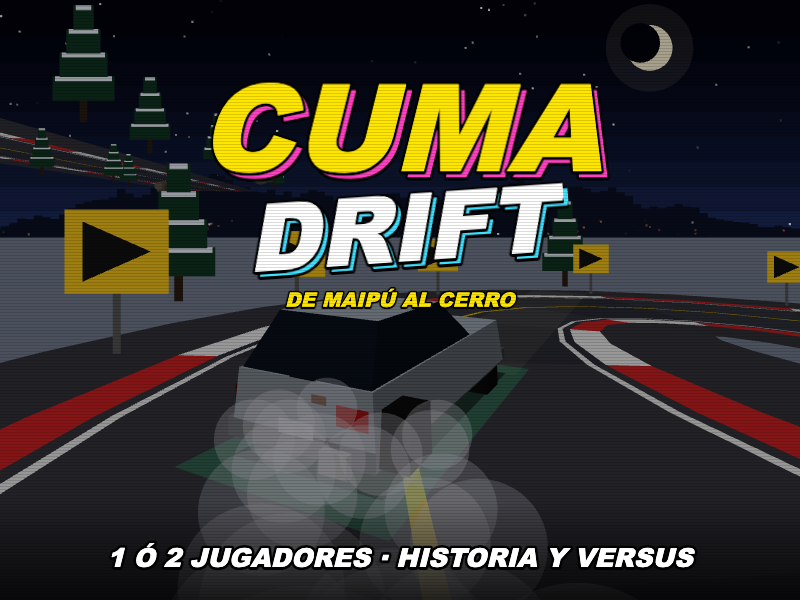
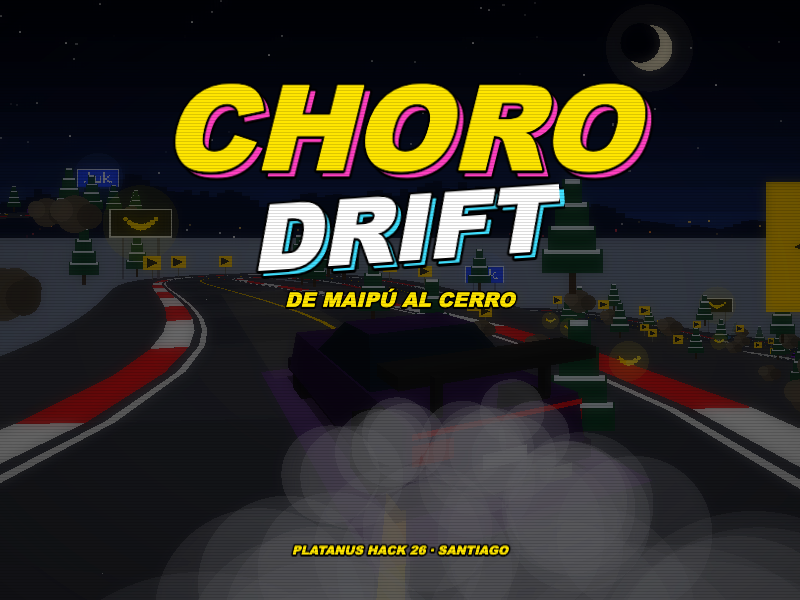
Rename to Choro Drift and polish for judging
- Rename the game to Choro Drift (title, garage, ending, metadata, cover)
- Add CARRERA RÁPIDA as the first menu option: one button to a race
  against a route rival, with a fitting car, without touching the save
- Bananas on every route refill piscola; Buk and Platanus billboards
- Bloom, vignette and saturation post effects; new cover from the game
- Piscola hint after the first drift; START skips the story intro
- Fix oversized cars on menu screens; consolation prize for losing
- Ease the quick-race rival, first story rival and rival rubber band
- Wrap the game in a function so the minifier shortens top-level names
  (frees ~2.4 KB) and drop unused scenery code

diff --git a/game.js b/game.js
@@ -1,5 +1,7 @@
-// CUMA DRIFT — Platanus Hack 26 Arcade
+// CHORO DRIFT — Platanus Hack 26 Arcade
 // Drift nocturno de Maipú al cerro. Todo generado por código.
+// Wrapped in a function so the minifier can shorten top-level names.
+(() => {
 
 const W = 800, H = 600;
 
@@ -136,14 +138,14 @@ const UPS = [
 ];
 // sky[top,horizon], grass, road, rumble, fog, rail, side objects, lamps every
 const TH = [
-  { sky: [0x05061a, 0x3a1f4a], gr: [0x23221f, 0x1d1c1a], rd: [0x2e2e34, 0x29292f], rm: [0x8a8a8a, 0x4a4a4a], fog: 0x120d1c, side: 'hhthk', ev: 7, lamp: 14 },
-  { sky: [0x06041a, 0x70264f], gr: [0x2a2a30, 0x242429], rd: [0x33333a, 0x2d2d33], rm: [0xe8c21a, 0x33333a], fog: 0x1f0d1c, side: 'bbbs', ev: 6, lamp: 11 },
-  { sky: [0x03051a, 0x53245a], gr: [0x1f2a22, 0x1a241d], rd: [0x303036, 0x2a2a30], rm: [0xdddddd, 0x33333a], fog: 0x170d20, side: 'btbt', ev: 7, lamp: 12, tw: 1 },
-  { sky: [0x02030f, 0x2a3a6a], gr: [0x20262c, 0x1b2026], rd: [0x2f2f35, 0x29292f], rm: [0xcc2222, 0xdddddd], fog: 0x0c0f1c, side: 'bbtb', ev: 7, lamp: 10 },
-  { sky: [0x01020c, 0x1a2a5a], gr: [0xc8d4e4, 0xb2c0d6], rd: [0x33343c, 0x2c2d35], rm: [0xcc2222, 0xeeeeee], fog: 0x0a1026, side: 'ppqp', ev: 8, lamp: 0 },
+  { sky: [0x05061a, 0x3a1f4a], gr: [0x23221f], rd: [0x2e2e34, 0x29292f], rm: [0x8a8a8a, 0x4a4a4a], fog: 0x120d1c, side: 'hhthk', lamp: 14 },
+  { sky: [0x06041a, 0x70264f], gr: [0x2a2a30], rd: [0x33333a, 0x2d2d33], rm: [0xe8c21a, 0x33333a], fog: 0x1f0d1c, side: 'bbbs', lamp: 11 },
+  { sky: [0x03051a, 0x53245a], gr: [0x1f2a22], rd: [0x303036, 0x2a2a30], rm: [0xdddddd, 0x33333a], fog: 0x170d20, side: 'btbt', lamp: 12, tw: 1 },
+  { sky: [0x02030f, 0x2a3a6a], gr: [0x20262c], rd: [0x2f2f35, 0x29292f], rm: [0xcc2222, 0xdddddd], fog: 0x0c0f1c, side: 'bbtb', lamp: 10 },
+  { sky: [0x01020c, 0x1a2a5a], gr: [0xc8d4e4], rd: [0x33343c, 0x2c2d35], rm: [0xcc2222, 0xeeeeee], fog: 0x0a1026, side: 'ppqp', lamp: 0 },
 ];
 const RT = [
-  { n: 'MAIPÚ', s: 'LAS POBLAS', th: 0, two: 1, seed: 7, pts: [0, 0, 0, 90, 30, 130, 90, 140, 130, 170, 130, 230, 90, 260, 20, 250, -20, 210, -70, 200, -110, 160, -110, 80, -70, 40, -60, -20, -30, -50, 0, -40], tr: 8, trT: [7, 6, 7, 4], hz: { y: 4, m: 3, d: 2 }, rv: { n: 'EL BRAYAN', q: '¿Con el auto de tu papi? JAJAJA.\nTe espero en la plaza, longi.', car: 1, col: 0xe6dfc4, vm: 26, al: 5 }, win: 1500 },
+  { n: 'MAIPÚ', s: 'LAS POBLAS', th: 0, two: 1, seed: 7, pts: [0, 0, 0, 90, 30, 130, 90, 140, 130, 170, 130, 230, 90, 260, 20, 250, -20, 210, -70, 200, -110, 160, -110, 80, -70, 40, -60, -20, -30, -50, 0, -40], tr: 8, trT: [7, 6, 7, 4], hz: { y: 4, m: 3, d: 2 }, rv: { n: 'EL BRAYAN', q: '¿Con el auto de tu papi? JAJAJA.\nTe espero en la plaza, longi.', car: 1, col: 0xe6dfc4, vm: 25, al: 4.7 }, win: 1500 },
   { n: 'SANTIAGO CENTRO', s: 'ALAMEDA Y CALLES CHICAS', th: 1, seed: 21, sc: 0.76, pts: [0, 0, 0, 160, 20, 200, 80, 200, 100, 180, 100, 120, 120, 100, 200, 100, 220, 120, 220, 220, 200, 240, 60, 260, 20, 300, -60, 300, -80, 280, -80, 200, -140, 180, -160, 140, -160, 20, -140, -20, -40, -40, -10, -30], tr: 14, trT: [4, 4, 6, 6, 7, 7], hz: { y: 5, P: 2 }, rv: { n: 'LA YESSENIA', q: 'En el centro mando yo, perrito.\nNo me vas a ver ni las luces.', car: 2, col: 0xff5fb0, vm: 28, al: 5.4 }, win: 2500 },
   { n: 'PROVIDENCIA', s: 'COSTANERA CENTER', th: 2, seed: 33, sc: 0.7, pts: [0, 0, 10, 120, 60, 200, 150, 230, 230, 200, 260, 120, 320, 80, 400, 110, 420, 200, 380, 280, 280, 320, 160, 330, 60, 380, -40, 360, -90, 280, -60, 200, -110, 120, -100, 20, -50, -40, -10, -50], tr: 16, trT: [4, 6, 6, 7, 7, 5], hz: { y: 4, g: 2, P: 2 }, rv: { n: 'EL TÍO LUCHO', q: 'Yo cruzo Provi en 4 minutos.\nCon pasajeros y dando vuelto.', car: 6, col: 0x151515, vm: 31, al: 6 }, win: 3500 },
   { n: 'LAS CONDES', s: 'EL GOLF Y APOQUINDO', th: 3, two: 1, seed: 48, sc: 0.7, pts: [0, 0, 0, 140, 40, 190, 110, 190, 150, 150, 150, 60, 190, 20, 260, 20, 300, 60, 300, 160, 340, 210, 340, 300, 290, 350, 200, 340, 150, 290, 90, 290, 40, 340, -40, 340, -90, 290, -90, 210, -140, 160, -140, 40, -100, -20, -30, -30], tr: 12, trT: [7, 7, 7, 6, 4], hz: { y: 4, P: 2, g: 2 }, rv: { n: 'EL MATI', q: 'Mi papá es dueño de esta comuna.\nLiteral. Córrete.', car: 7, col: 0xf2f2f2, vm: 35, al: 6.8 }, win: 5000 },
@@ -341,7 +343,9 @@ function mkTrack(ri) {
     }
     if (abs(k) > 0.024 && i % 2 === 0 && !r.lot) put(i, -sgn(k) * (hw + 2.6), { t: 'c', d: sgn(k) });
     if (r.lot && i % 4 === 0) put(i, -(hw + 0.6), { t: 'n' });
+    if (!r.lot && i % 30 === 15) put(i, ((i / 30 | 0) & 1 ? 1 : -1) * (hw + 6), { t: 'U', c: (i / 60 | 0) & 1 });
   }
+  if (!r.lot) for (let q = 0; q < 8; q++) put(25 + (rn() * (N - 50) | 0), (rn() - 0.5) * hw * 1.2, { t: 'B', p: rn() * 6, hz: 1 });
   const hz = r.hz || {};
   for (const t in hz) for (let q = 0; q < hz[t]; q++) {
     const i = 25 + (rn() * (N - 50) | 0);
@@ -509,9 +513,6 @@ function ob(o) {
     B(0, 0, 40, 330, 0x555555); B(0, 300, 520, 420, 0xf2c21a);
     const x = cx, y = by - 510 * cs, d = o.d;
     cg.fillStyle(0x111111, ca); cg.fillTriangle(x - d * 170 * cs, y - 150 * cs, x - d * 170 * cs, y + 150 * cs, x + d * 170 * cs, y);
-  } else if (t === 'a') {
-    B(0, 0, 330, 300, 0xeeeeee); B(0, 300, 400, 60, 0x4a6fd0); B(0, 360, 30, 190, 0xeeeeee); B(0, 460, 130, 30, 0xeeeeee);
-    B(-90, 0, 24, 60, 0xffd040); B(80, 0, 24, 60, 0xffd040); C(0, 60, 260, 0xffc050, 0.12);
   } else if (t === 'k') {
     B(0, 60, 620, 330, 0xe0e0e0); B(-230, 0, 90, 90, 0x111111); B(230, 0, 90, 90, 0x111111); B(0, 390, 30, 520, 0x777777);
     B(0, 880, 900, 110, 0xd82020); B(-300, 880, 150, 110, 0xffffff); B(300, 880, 150, 110, 0xffffff); C(0, 520, 330, 0xffc050, 0.14);
@@ -529,6 +530,25 @@ function ob(o) {
     const hop = abs(sin(now * 9)) * 30, d = Math.cos(now * 0.7 + o.p) > 0 ? 1 : -1;
     B(0, 60 + hop, 210, 100, 0x8a5a2a); B(d * 130, 130 + hop, 90, 90, 0x8a5a2a); B(d * 170, 120 + hop, 50, 36, 0x3a2412);
     B(-d * 110, 150 + hop, 30, 70, 0x8a5a2a); B(-70, hop, 28, 70, 0x6a4420); B(70, hop, 28, 70, 0x6a4420);
+  } else if (t === 'B') {
+    if (now - (o.g || -9) < 3) return;
+    const h = 120 + sin(now * 4 + o.p) * 40;
+    C(0, h + 90, 330, 0xffe14a, 0.18);
+    for (let i = -3; i < 4; i++) C(i * 55, h + 60 + i * i * 9, 50 - abs(i) * 5, i < 0 ? 0xffd400 : 0xffe84a);
+    B(-175, h + 130, 30, 50, 0x5a3a12);
+  } else if (t === 'U') {
+    const pl = o.c, y = 1300;
+    B(-560, 0, 70, y, 0x555560); B(560, 0, 70, y, 0x555560);
+    B(0, y, 2000, 900, 0xf4f4f4); B(0, y + 40, 1900, 820, pl ? 0x141414 : 0x2340e8);
+    C(0, y + 450, 1200, pl ? 0xffe600 : 0x6090ff, 0.1);
+    if (pl) for (let i = -4; i < 5; i++) C(i * 120, y + 330 + i * i * 16, 110 - abs(i) * 9, 0xffd400);
+    else {
+      const L = (x, a, b, w, h) => B(x + a, y + 230 + b, w, h, 0xffffff);
+      L(-430, 0, 0, 80, 520); L(-430, 110, 0, 220, 80); L(-430, 110, 240, 220, 80); L(-430, 190, 0, 80, 320);
+      L(0, -120, 0, 80, 320); L(0, 120, 0, 80, 320); L(0, 0, 0, 240, 80);
+      L(400, -110, 0, 80, 520); L(400, 0, 140, 90, 90); L(400, 80, 230, 90, 90); L(400, 80, 50, 90, 90); L(400, 150, 0, 80, 70); L(400, 150, 300, 80, 70);
+      C(-640, y + 270, 50, 0xffffff); C(640, y + 270, 50, 0xffffff);
+    }
   } else if (t === 'P') car(8, o.yw - CYAW, {});
   else if (t === 'n') { B(0, 0, 70, 14, 0x222222); B(0, 14, 46, 60, 0xff7a1a); B(0, 40, 34, 14, 0xffffff); }
 }
@@ -607,7 +627,7 @@ function view(P, g, VH) {
     const i = key & 1023, j = tk.ix(i + 1);
     if (j === i) continue;
     const f = Math.pow(clamp(((key >> 10) / 8 - 16) / 230, 0, 1), 1.3), alt = (i >> 1) & 1, fc_ = (c) => mix(c, th.fog, f);
-    if (!tk.lot) { strip(g, i, j, -hw - 4.6, hw + 4.6, fc_(th.sw || 0x34343a)); strip(g, i, j, -hw - 1, hw + 1, fc_(th.rm[alt])); }
+    if (!tk.lot) { strip(g, i, j, -hw - 4.6, hw + 4.6, fc_(0x34343a)); strip(g, i, j, -hw - 1, hw + 1, fc_(th.rm[alt])); }
     strip(g, i, j, -hw, hw, fc_(i === tk.fin ? 0xeeeeee : th.rd[alt]));
     const lc = fc_(0xe8e8e8);
     strip(g, i, j, -hw + 0.25, -hw + 0.42, lc); strip(g, i, j, hw - 0.42, hw - 0.25, lc);
@@ -672,12 +692,12 @@ function startRace(ri, mode) {
   const grid = (o, i, lat) => { o.x = tk.x[i] + tk.tz[i] * lat; o.z = tk.z[i] - tk.tx[i] * lat; o.y = tk.y[i]; o.yaw = o.cyaw = Math.atan2(tk.tx[i], tk.tz[i]); o.si = i; };
   if (vs) for (let i = 0; i < 2; i++) { const P = mkP(i, VS.c[i], [2, 2, 2, 1, 1, 1, 1], 0, VH); grid(P, 3, i ? 1.7 : -1.7); R.P.push(P); }
   else {
-    const dm = mode === 'demo', P = mkP(0, dm ? 3 : SV.car, dm ? [1, 1, 1, 1, 1, 1, 1] : SV.up, SV.bug, VH);
+    const dm = mode === 'demo', qk = mode === 'quick', P = mkP(0, dm ? 3 : qk ? [0, 1, 2, 3, 3][ri] : SV.car, dm ? [1, 1, 1, 1, 1, 1, 1] : qk ? [2, 2, 2, 1, 1, 1, 1] : SV.up, qk ? 0 : SV.bug, VH);
     grid(P, 3, mode === 'free' ? 0 : -1.7); R.P.push(P);
     if (dm) { P.demo = 1; P.s = 12; P.lat = 0; P.spd = 0; }
-    else if (mode === 'story') {
+    else if (mode === 'story' || mode === 'quick') {
       const rv = rt.rv;
-      R.rv = { ai: 1, s: 8 * tk.ds, lat: 1.7, sp: 0, ty: rv.car, w: 0.95, vmx: rv.vm, al: rv.al, col: rv.col, fin: 0, lapc: 0, prog: 0, fl: 0, o: { col: rv.col, neon: ri > 2 ? 0xff3060 : 0, wing: ri > 0, beam: 1 } };
+      R.rv = { ai: 1, s: 8 * tk.ds, lat: 1.7, sp: 0, ty: rv.car, w: 0.95, vmx: rv.vm * (mode === 'quick' ? 0.82 : 1), al: rv.al * (mode === 'quick' ? 0.85 : 1), col: rv.col, fin: 0, lapc: 0, prog: 0, fl: 0, o: { col: rv.col, neon: ri > 2 ? 0xff3060 : 0, wing: ri > 0, beam: 1 } };
       R.cars.push(R.rv);
     }
   }
@@ -763,7 +783,7 @@ function upP(P, dt) {
   if (P.cmbT > 0) { P.cmbT -= dt; if (P.cmbT <= 0 && !P.dr) P.cmb = 1; }
   P.bo = b2 && P.ni > 0 && !D ? 1 : 0;
   if (P.bo) { if (!P.wb) { nz(0.5, 0.25, 1200, 'bandpass'); tone(200, 0.5, 'sawtooth', 0.1, 900); } P.ni -= dt * 0.7; }
-  P.wb = P.bo;
+  P.wb = P.bo; if (P.bo) P.nu = 1;
   if (P.slp > 0.5 && U) { P.vx *= 1 + 0.06 * dt; P.vz *= 1 + 0.06 * dt; }
   if (hb) P.dk = 1; else if (abs(P.be) < 0.22) P.dk = max(0, P.dk - dt * 2.5);
   const surf = !tk.lot && abs(P.lat) > tk.hw + 1 ? 0.6 : 1;
@@ -823,7 +843,7 @@ function upP(P, dt) {
         if (P.vf < 0 || ab > 1.4) { P.cmb = 1; pop(P, '¡TROMPO!', '#ff4040'); }
         else if (lv) {
           P.ni = min(3, P.ni + P.ch * 0.5);
-          pop(P, ['', '¡WENA!', '¡LA MEDIA VOLÁ!', '¡¡CUMA DRIFT!!'][lv] + ' x' + P.cmb, ['', '#40c8ff', '#ff9020', '#ff40c0'][lv]);
+          pop(P, ['', '¡WENA!', '¡LA MEDIA VOLÁ!', '¡¡CHORO DRIFT!!'][lv] + ' x' + P.cmb, ['', '#40c8ff', '#ff9020', '#ff40c0'][lv]);
           tone(500 * lv, 0.25, 'square', 0.12, 1000 * lv); nz(0.4, 0.2, 1200, 'bandpass');
           P.cmb = min(9, P.cmb + 1); P.cmbT = 5;
         }
@@ -871,7 +891,9 @@ function upP(P, dt) {
     const hl = tk.hm[tk.ix(si0 + q)];
     if (hl) for (const o of hl) {
       const t = o.t, d2 = abs(o.lat - P.lat);
-      if (t === 'y' && d2 < 1.3) { P.vx *= 0.75; P.vz *= 0.75; P.shk = 0.35; P.bnc = 0.6; pop(P, '¡HOYO!', '#ff9020'); nz(0.2, 0.4, 300, 'lowpass'); }
+      if (t === 'B') {
+        if (d2 < 1.6 && now - (o.g || -9) > 3) { o.g = now; P.ni = min(3, P.ni + 1); P.pts += 200 * P.cmb; pop(P, '¡PLÁTANO! +PISCOLA', '#ffe600'); tone(988, 0.08, 'square', 0.12); tone(1319, 0.15, 'square', 0.1, 0, AC ? AC.currentTime + 0.07 : 0); }
+      } else if (t === 'y' && d2 < 1.3) { P.vx *= 0.75; P.vz *= 0.75; P.shk = 0.35; P.bnc = 0.6; pop(P, '¡HOYO!', '#ff9020'); nz(0.2, 0.4, 300, 'lowpass'); }
       else if (t === 'm') {
         P.bnc = 1;
         if (sp > 13) { P.vx *= 0.78; P.vz *= 0.78; P.shk = 0.4; pop(P, '¡LOMO DE TORO!', '#ff9020'); nz(0.25, 0.4, 250, 'lowpass'); }
@@ -907,7 +929,7 @@ function upCars(dt) {
       const i = Math.floor(c.s / tk.ds);
       let vt = c.vmx;
       for (let q = 0; q < 14; q++) vt = min(vt, Math.sqrt(c.al / (abs(tk.k[tk.ix(i + q)]) + 1e-4) + 13 * q * tk.ds));
-      vt *= 1 + clamp((P0.prog - c.prog) * tk.ds / 300, -0.07, 0.1);
+      vt *= 1 + clamp((P0.prog - c.prog) * tk.ds / 300, -0.12, 0.1);
       let tl = clamp(tk.k[tk.ix(i + 3)] * 60, -1, 1) * (tk.hw - 1.6);
       if (RT[R.ri].two) tl = max(tl, 0.9);
       for (const t of R.cars) {
@@ -974,7 +996,7 @@ function hud(P, oy, VH) {
     let c = 0;
     for (let q = 2; q < 15; q += 3) c = max(c, abs(tk.k[tk.ix(P.si + q)]));
     if (c > 0.024 && (now * 3 | 0) % 2) T('dh' + i, W / 2, oy + VH * 0.32, '¡BOTÓN 2 EN LA CURVA = DERRAPE!', vs ? 20 : 26, '#40e0ff');
-  }
+  } else if (R.go && R.mode !== 'free' && P.ni >= 1 && !P.nu && (now * 3 | 0) % 3) T('hn' + i, W / 2, oy + 54, 'BOTÓN 3: ¡PISCOLA! = NITRO', vs ? 14 : 18, '#40e0ff');
   if (P.ww > 1.2) T('ww' + i, W / 2, oy + VH * 0.4, '¡SENTIDO CONTRARIO!', 30, '#ff4040');
   if (P.pop) {
     const q = P.pop;
@@ -1019,7 +1041,7 @@ function race(dt) {
     } else if (R.t < 5 && cd <= 0) T('cd', W / 2, H / 2 - 40, '¡DALE!', 90, '#a0ff40');
   } else if (R.t < 6) T('cdh', W / 2, 120, 'PISTA LIBRE\nBOTÓN 1 ACELERA · ABAJO FRENA\nBOTÓN 2 FRENO DE MANO · BOTÓN 3 PISCOLA', 18, '#ffffff');
   if (hit.START1 || hit.START2) {
-    if (now - R.q < 1.2) { endRace(); go(vs || free ? 'title' : 'garage'); return; }
+    if (now - R.q < 1.2) { endRace(); go(vs || free || R.mode === 'quick' ? 'title' : 'garage'); return; }
     R.q = now;
   }
   if (now - R.q < 1.2) T('quit', W / 2, H - 60, 'START OTRA VEZ PARA SALIR', 16, '#ffffff');
@@ -1052,12 +1074,13 @@ function finish() {
     go(R.nm ? 'name' : 'vres');
     return;
   }
-  const P = R.P[0], win = P.fin && (!R.rv.fin || P.fin <= R.rv.fin), base = win ? RT[R.ri].win : 0, dr = (P.pts * facha() / 20) | 0;
+  const P = R.P[0], win = P.fin && (!R.rv.fin || P.fin <= R.rv.fin), base = win ? RT[R.ri].win : P.fin ? RT[R.ri].win * 0.4 | 0 : 0, dr = (P.pts * facha() / 20) | 0;
   const earn = max(0, base + dr - P.fine), t = P.fin ? P.fin - 4 : 0;
   let rec = 0;
-  if (win && (!SV.best[R.ri] || t < SV.best[R.ri])) { SV.best[R.ri] = t; rec = 1; }
-  R.res = { win, base, dr, fine: P.fine, earn, t, rec, first: win && SV.prog === R.ri };
-  SV.cash += earn;
+  const qk = R.mode === 'quick';
+  if (!qk && win && (!SV.best[R.ri] || t < SV.best[R.ri])) { SV.best[R.ri] = t; rec = 1; }
+  R.res = { win, base, dr, fine: P.fine, earn, t, rec, qk, first: !qk && win && SV.prog === R.ri };
+  if (!qk) SV.cash += earn;
   if (R.res.first) SV.prog++;
   if (R.res.first && R.ri === 4) SV.own[3] = 1;
   save();
@@ -1085,7 +1108,7 @@ function floor() {
   for (let i = -10; i < 11; i++) gu.lineBetween(W / 2 + i * 40, 380, W / 2 + i * 190, H);
   gu.fillStyle(0xff40c0, 0.08); gu.fillRect(0, 370, W, 12);
 }
-function showCar(x, y, sc, ty, a, o) { cg = gu; cx = x; by = y; cs = sc; ca = 1; vcam = 620; FV = 1500; car(ty, a, o); FV = F; }
+function showCar(x, y, sc, ty, a, o) { cg = gu; cx = x; by = y; cs = sc * 0.6; ca = 1; vcam = 620; FV = 1500; car(ty, a, o); FV = F; }
 const myTy = () => (SV.car === 0 && SV.bug ? 9 : SV.car);
 const myO = () => ({ neon: SV.car === 3 ? 0xb040ff : SV.up[3] ? 0x30ff90 : 0, wing: SV.up[4] || SV.car === 3, exh: SV.up[5] });
 
@@ -1093,19 +1116,20 @@ function title(dt) {
   race(dt);
   gu.fillStyle(0x000000, 0.35); gu.fillRect(0, 0, W, H);
   const b = 1 + sin(now * 16.2) * 0.02;
-  T('t1s', W / 2 + 6, 136, 'CUMA', 120, '#ff40c0').setScale(b);
-  T('t1', W / 2, 130, 'CUMA', 120, '#ffe600').setScale(b);
+  T('t1s', W / 2 + 6, 136, 'CHORO', 120, '#ff40c0').setScale(b);
+  T('t1', W / 2, 130, 'CHORO', 120, '#ffe600').setScale(b);
   T('t2s', W / 2 + 5, 235, 'DRIFT', 92, '#40e0ff').setScale(b).setAngle(-4);
   T('t2', W / 2, 230, 'DRIFT', 92, '#ffffff').setScale(b).setAngle(-4);
   T('t3', W / 2, 300, 'DE MAIPÚ AL CERRO', 20, '#ffe600');
   // the cabinet is shared: anyone can resume the saved story or start over
-  const ks = SV.on ? ['c', 'n', 'v', 'f'] : ['n', 'v', 'f'], nk = ks.length;
-  const it = ks.map((k) => ({ c: 'CONTINUAR HISTORIA', n: SV.on ? 'NUEVA HISTORIA' : 'MODO HISTORIA', v: 'VERSUS 2 JUGADORES', f: 'PISTA LIBRE' })[k]);
+  const ks = SV.on ? ['q', 'c', 'n', 'v', 'f'] : ['q', 'n', 'v', 'f'], nk = ks.length;
+  const it = ks.map((k) => ({ q: 'CARRERA RÁPIDA', c: 'CONTINUAR HISTORIA', n: SV.on ? 'NUEVA HISTORIA' : 'MODO HISTORIA', v: 'VERSUS 2 JUGADORES', f: 'PISTA LIBRE' })[k]);
   sel = min(sel, nk - 1);
   if (tap(1, 'U') || tap(2, 'U')) { sel = (sel + nk - 1) % nk; sSel(); }
   if (tap(1, 'D') || tap(2, 'D')) { sel = (sel + 1) % nk; sSel(); }
-  it.forEach((s, i) => T('m' + i, W / 2, 380 - (nk - 3) * 30 + i * 40, (sel === i ? '▶ ' : '') + s, sel === i ? 30 : 24, sel === i ? '#ffe600' : '#ffffff'));
-  if ((now * 2 | 0) % 2) T('ps', W / 2, 520, 'APRETA UN BOTÓN', 18, '#a0ff40');
+  it.forEach((s, i) => T('m' + i, W / 2, 345 + i * (nk > 4 ? 34 : 42), (sel === i ? '▶ ' : '') + s, sel === i ? 30 : 24, sel === i ? '#ffe600' : '#ffffff'));
+  if ((now * 2 | 0) % 2) T('ps', W / 2, 522, 'APRETA UN BOTÓN', 18, '#a0ff40');
+  T('ph', W / 2, 22, 'PLATANUS HACK 26 · SANTIAGO', 12, '#ffe600');
   T('cr', W / 2, 575, 'BOTÓN 1 ACELERA · ABAJO FRENA · BOTÓN 2 FRENO DE MANO · BOTÓN 3 PISCOLA', 12, '#ffffff');
   const rk = [0, 1, 2, 3, 4].filter((i) => REC.t[i]);
   if (rk.length) { const i = rk[(now / 3 | 0) % rk.length]; T('rc', W / 2, 548, 'RÉCORD ' + RT[i].n + ': ' + REC.n[i] + '  ' + tm(REC.t[i]), 16, '#40e0ff'); }
@@ -1113,7 +1137,8 @@ function title(dt) {
   if (okHit(1) || okHit(2)) {
     const k = ks[sel];
     sOk(); endRace();
-    if (k === 'f') startRace(5, 'free');
+    if (k === 'q') startRace(rnd() * 5 | 0, 'quick');
+    else if (k === 'f') startRace(5, 'free');
     else if (k === 'v') go('vsel');
     else if (k === 'c') go('garage');
     else { const b = SV.best; SV = fresh(); SV.best = b; save(); go('intro'); }
@@ -1127,6 +1152,7 @@ const INTRO = [
 ];
 function intro() {
   gu.fillStyle(0x000000, 1); gu.fillRect(0, 0, W, H);
+  if (hit.START1 && page < 3) { page = 3; st = 0; }
   if (page < 3) {
     const p = INTRO[page], s = p[1].slice(0, st * 30 | 0);
     T('i0', W / 2, 200, p[0], 40, '#ffe600');
@@ -1160,7 +1186,7 @@ function garage() {
   sel = min(sel, items.length - 1);
   const it = items[sel], mr = min(SV.prog, 4);
   if (it.k === 'go' && (tap(1, 'L') || tap(1, 'R'))) { rsel = (rsel + (tap(1, 'L') ? mr : 1)) % (mr + 1); sSel(); }
-  T('gt', 24, 14, 'TALLER DON CUMA', 30, '#ffe600', 0, 0);
+  T('gt', 24, 14, 'TALLER DON CHORO', 30, '#ffe600', 0, 0);
   T('gc', W - 24, 14, fmt(SV.cash), 30, '#a0ff40', 1, 0);
   showCar(210, 350, 0.62, myTy(), now * 0.8, myO());
   T('gn', 210, 110, SV.car === 0 && SV.bug ? "ESCARABAJO '74" : CARS[SV.car].n, 24, '#ffffff');
@@ -1223,14 +1249,14 @@ function result() {
     }
   });
   if (r.first && R.ri < 4) T('r2', W / 2, 490, '¡RUTA NUEVA: ' + RT[R.ri + 1].n + '!', 26, '#40e0ff');
-  if (st > 2 && (now * 2 | 0) % 2) T('r3', W / 2, 550, 'BOTÓN: AL TALLER', 18, '#a0ff40');
-  if (st > 1.2 && okHit(1)) { sOk(); go(r.first && R.ri === 4 ? 'end' : 'garage'); }
+  if (st > 2 && (now * 2 | 0) % 2) T('r3', W / 2, 550, r.qk ? 'BOTÓN: MENÚ' : 'BOTÓN: AL TALLER', 18, '#a0ff40');
+  if (st > 1.2 && okHit(1)) { sOk(); go(r.qk ? 'title' : r.first && R.ri === 4 ? 'end' : 'garage'); }
 }
 
 const ENDT = [
   ['EL REY DEL CERRO', 'te tira las llaves del BMV.\n«Cuídalo. Está zorreado entero.»'],
   ['MAIPÚ. 06:12.', 'Tu papá en la puerta, en pantuflas.\n«¿Y mi auto?... ¿Le pusiste NEÓN?»'],
-  ['CUMA DRIFT', 'Ahora el cerro es tuyo.\nEl BMV 320 ZORRÓN te espera en el taller.'],
+  ['CHORO DRIFT', 'Ahora el cerro es tuyo.\nEl BMV 320 ZORRÓN te espera en el taller.'],
 ];
 function ending() {
   gu.fillStyle(0x000000, 1); gu.fillRect(0, 0, W, H);
@@ -1308,6 +1334,7 @@ function create() {
   for (let y = 0; y < H; y += 3) sc.fillRect(0, y, W, 1);
   cam0.ignore([g1, gu, sc]); cam1.ignore([g0, gu, sc]); camU.ignore([g0, g1]);
   cam1.setVisible(false);
+  for (const c of [cam0, cam1]) try { c.postFX.addBloom(0xffffff, 1, 1, 0.6, 0.55, 2); c.postFX.addVignette(0.5, 0.5, 0.9, 0.25); c.postFX.addColorMatrix().saturate(0.25, true); } catch (e) { /* canvas */ }
   const rn = rng(5);
   for (let i = 0; i < 70; i++) STARS.push({ x: rn() * W, y: rn(), p: rn() * 6 });
   let h = 0.5;
@@ -1352,3 +1379,4 @@ new Phaser.Game({
   scale: { mode: Phaser.Scale.FIT, autoCenter: Phaser.Scale.CENTER_BOTH },
   scene: { create, update },
 });
+})();
